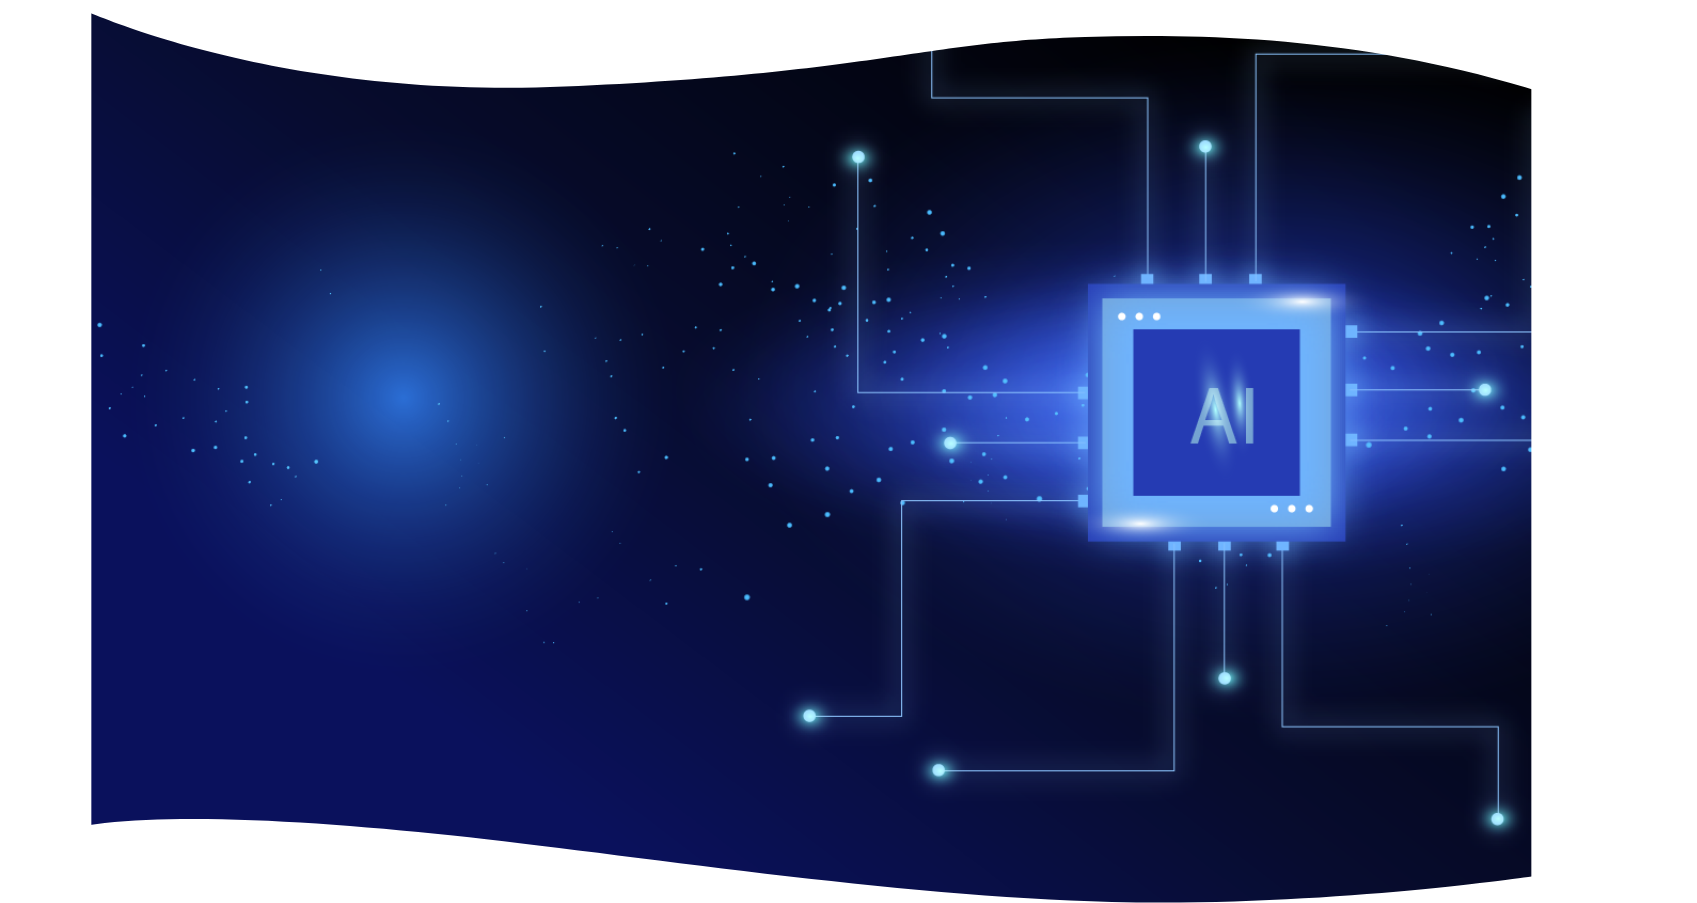
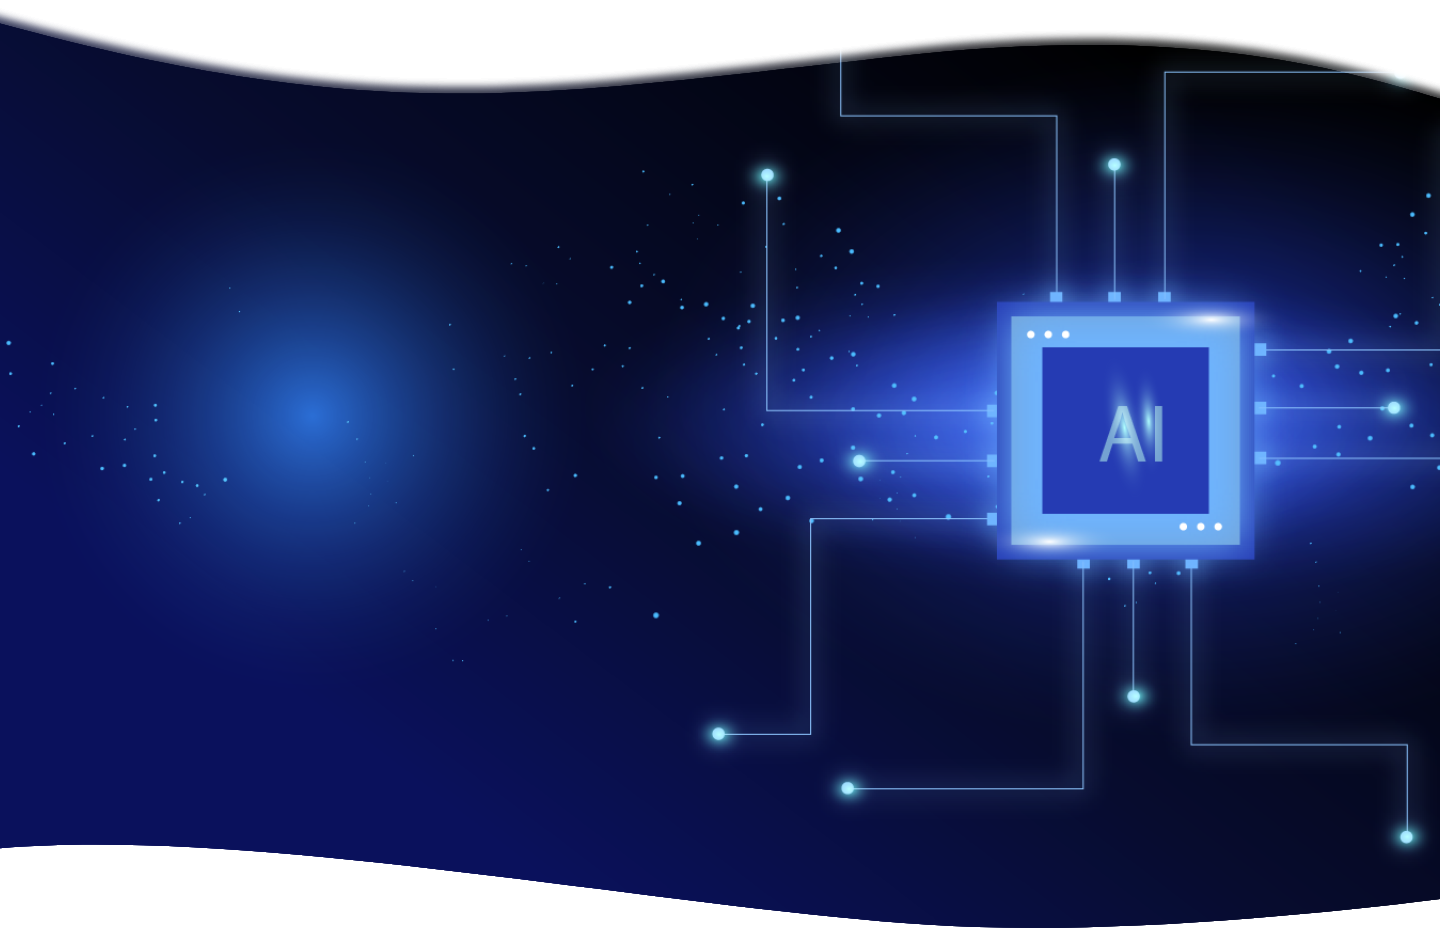
no image footer

diff --git a/_site/index.html b/_site/index.html
@@ -16,7 +16,6 @@
 
 
   <body>
-    <div class="container">
       <div class="all_content"> 
 
     <!-- header-area START -->
@@ -377,10 +376,8 @@
     </div>
     <!-- contact-area END -->
 
-    </div>
     
           <div class="footer-area">
-            <img src="img/footer.png" alt="">
             <div class="container">
                 <div class="row align-items-end">
                     <div class="col-lg-8 d-none d-lg-block">

diff --git a/_includes/footer.html b/_includes/footer.html
@@ -1,6 +1,5 @@
 
           <div class="footer-area">
-            <img src="img/footer.png" alt="">
             <div class="container">
                 <div class="row align-items-end">
                     <div class="col-lg-8 d-none d-lg-block">
